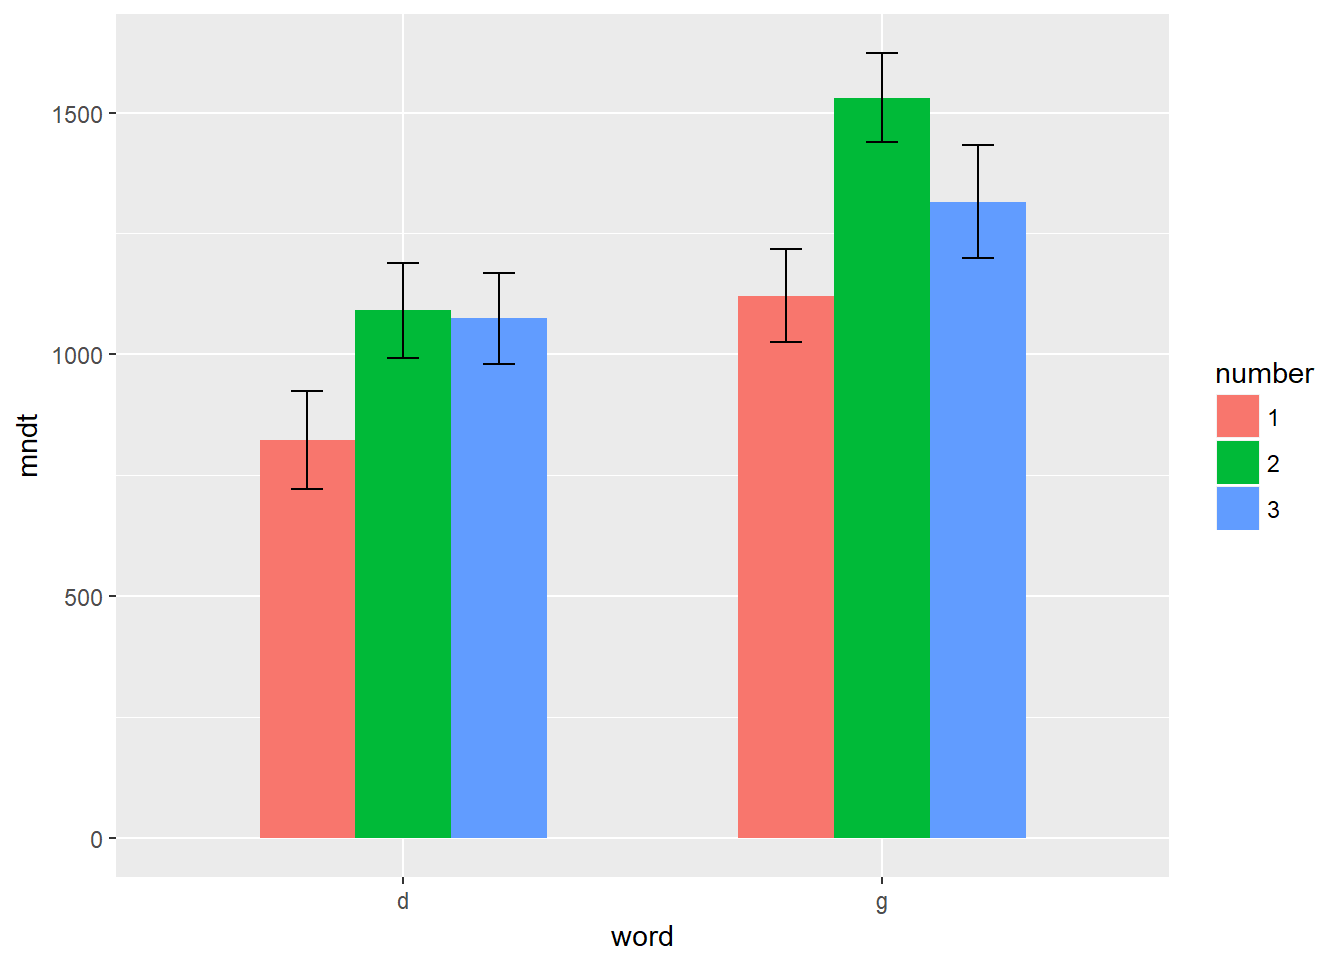
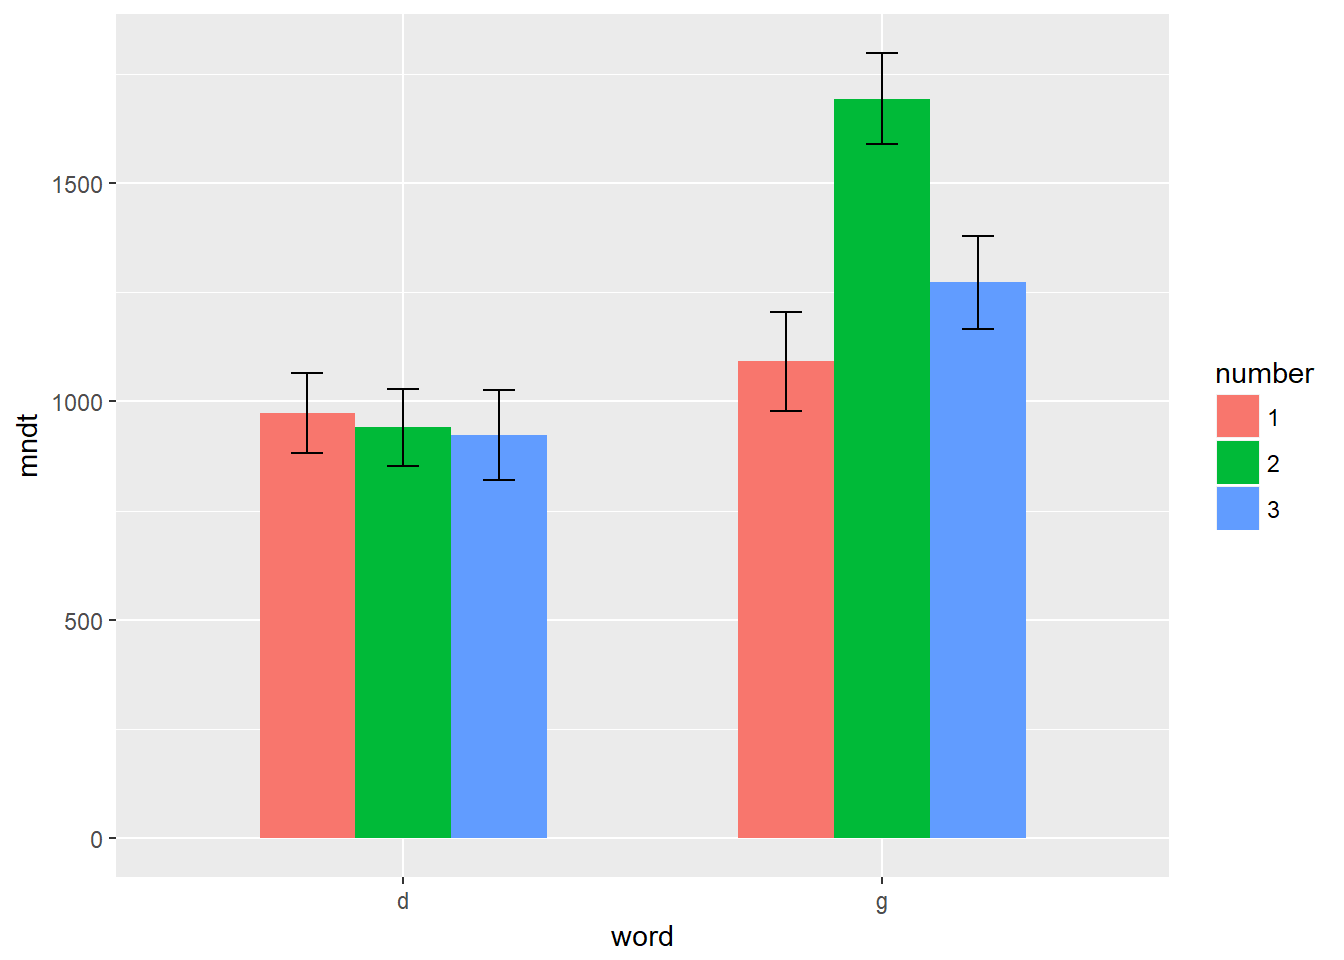
tidyverse文章改动第一次
根据孟祥良提出意见进行改动

diff --git a/blog/tidyverse-for-eyemovement/index.html b/blog/tidyverse-for-eyemovement/index.html
@@ -114,7 +114,7 @@
 
 <meta itemprop="datePublished" content="2017-12-25T00:00:00&#43;00:00" />
 <meta itemprop="dateModified" content="2017-12-25T00:00:00&#43;00:00" />
-<meta itemprop="wordCount" content="2612">
+<meta itemprop="wordCount" content="2630">
 
 
 
@@ -143,7 +143,7 @@
 <h2>载入tidyverse</h2>
 <pre class="r"><code>library(tidyverse)</code></pre>
 <pre><code>## Warning: package &#39;tidyverse&#39; was built under R version 3.4.3</code></pre>
-<pre><code>## -- Attaching packages ----------------- tidyverse 1.2.1 --</code></pre>
+<pre><code>## -- Attaching packages ------------------------------ tidyverse 1.2.1 --</code></pre>
 <pre><code>## √ ggplot2 2.2.1     √ purrr   0.2.4
 ## √ tibble  1.4.2     √ dplyr   0.7.4
 ## √ tidyr   0.8.0     √ stringr 1.2.0
@@ -152,7 +152,7 @@
 <pre><code>## Warning: package &#39;tidyr&#39; was built under R version 3.4.3</code></pre>
 <pre><code>## Warning: package &#39;purrr&#39; was built under R version 3.4.3</code></pre>
 <pre><code>## Warning: package &#39;dplyr&#39; was built under R version 3.4.3</code></pre>
-<pre><code>## -- Conflicts -------------------- tidyverse_conflicts() --
+<pre><code>## -- Conflicts --------------------------------- tidyverse_conflicts() --
 ## x dplyr::filter() masks stats::filter()
 ## x dplyr::lag()    masks stats::lag()</code></pre>
 <p>载入<code>tidyverse</code>后，可以看到有8个包被同时载入，这8个包分别是：</p>
@@ -208,7 +208,7 @@
 <p><code>tibble</code>格式相较于<code>data.frame</code>格式的优势在于，默认情况下只显示前10行数据，并会显示数据的行数与列数以及每一列的数据类型，这样就无需额外使用<code>str</code>等函数来查看相关的信息。</p>
 <p>通过直接输入数据名，我们来看一下这个数据：</p>
 <pre class="r"><code>dl</code></pre>
-<pre><code>## # A tibble: 13,147 x 30
+<pre><code>## # A tibble: 13,123 x 30
 ##    Trial  Subject Color  Stimulus `Area of Intere~ `AOI Group` `AOI Scope`
 ##    &lt;chr&gt;  &lt;chr&gt;   &lt;chr&gt;  &lt;chr&gt;    &lt;chr&gt;            &lt;chr&gt;       &lt;chr&gt;      
 ##  1 Trial~ P01     Coral  1d1.jpg  AOI 003          &lt;NA&gt;        Local      
@@ -221,7 +221,7 @@
 ##  8 Trial~ FZL     DarkG~ 1d1.jpg  AOI 003          &lt;NA&gt;        Local      
 ##  9 Trial~ XC (1)  DarkK~ 1d1.jpg  AOI 003          &lt;NA&gt;        Local      
 ## 10 Trial~ WW      DarkM~ 1d1.jpg  AOI 003          &lt;NA&gt;        Local      
-## # ... with 13,137 more rows, and 23 more variables: `AOI Order` &lt;int&gt;,
+## # ... with 13,113 more rows, and 23 more variables: `AOI Order` &lt;int&gt;,
 ## #   `AOI Size [px]` &lt;int&gt;, `AOI Coverage [%]` &lt;dbl&gt;, `Start Time
 ## #   [ms]` &lt;int&gt;, `End Time [ms]` &lt;int&gt;, `Entry Time [ms]` &lt;chr&gt;,
 ## #   Sequence &lt;chr&gt;, `Net Dwell Time [ms]` &lt;dbl&gt;, `Dwell Time [ms]` &lt;dbl&gt;,
@@ -245,7 +245,7 @@
 <p>在这里，我用到了管道操作符<code>%&gt;%</code>。它的作用是将其左边操作所生成的数据传递到其右边函数的第一个参数位置上（通过某种操作也可传递到其他位置上），其快捷键是<strong>Ctrl+Shift+M</strong>（另外，赋值符<strong>&lt;-</strong>的快捷键是<strong>Alt+-</strong>）。使用管道操作符，可以在保证代码具有条理性的前提之下，减少中间变量的命名（给中间变量起名是一件非常耗时的事情）与重复输入。因为<code>tidyverse</code>包函数中第一个参数位置上一般都是数据名，所以管道操作符可以很好地与<code>tidyverse</code>搭配使用。管道操作符属于<code>magrittr</code>包，但载入<code>tidyverse</code>包会将其自动载入。管道操作符并不是只有这一种，若想进一步了解管道操作符，请看<a href="https://www.datacamp.com/community/tutorials/pipe-r-tutorial">Pipes in R Tutorial For Beginners</a>。另外，<code>pipeR</code>包也提供了一系列管道操作符，非常实用，其作者是之前提到的任坤。</p>
 <p><code>tidyverse</code>有一个原则，即每个函数只做一件事情（忘了在哪里看到的了）。但是<code>select</code>函数就违背了这一原则，因为它至少可以做三件事情。一是对列进行选择，二是对所选择的列进行重命名，三是对所选择的列进行排序。在上面的代码中，我从原始数据中选择了5列，并重新给变量命了名，这时的数据是这样的：</p>
 <pre class="r"><code>dl</code></pre>
-<pre><code>## # A tibble: 13,147 x 5
+<pre><code>## # A tibble: 13,123 x 5
 ##    trial    sub    stimuli aoi     net_dt
 ##    &lt;chr&gt;    &lt;chr&gt;  &lt;chr&gt;   &lt;chr&gt;    &lt;dbl&gt;
 ##  1 Trial048 P01    1d1.jpg AOI 003      0
@@ -258,7 +258,7 @@
 ##  8 Trial041 FZL    1d1.jpg AOI 003   1024
 ##  9 Trial041 XC (1) 1d1.jpg AOI 003    721
 ## 10 Trial041 WW     1d1.jpg AOI 003   1152
-## # ... with 13,137 more rows</code></pre>
+## # ... with 13,113 more rows</code></pre>
 <p>需要的列已经挑选了出来，接下来该针对行进行处理了。在处理之前，我先用<code>unique</code>函数对兴趣区内的元素进行了查看。<code>unique</code>函数的作用是去掉重复的元素。这一步的代码如下：</p>
 <pre class="r"><code>unique(dl$aoi)</code></pre>
 <pre><code>## [1] &quot;AOI 003&quot;     &quot;AOI 002&quot;     &quot;AOI 001&quot;     &quot;White Space&quot;</code></pre>
@@ -268,7 +268,7 @@
   filter(aoi != &quot;White Space&quot;)</code></pre>
 <p><code>filter</code>函数在这里的作用是将<strong>aoi</strong>变量中不是(<code>!</code>)”White Space“的行保留下来。此时的数据是这样的，可以看到，在剔除了一部分无用数据之后，行数已经从13000多行减少到了9000多行：</p>
 <pre class="r"><code>dl</code></pre>
-<pre><code>## # A tibble: 9,391 x 5
+<pre><code>## # A tibble: 9,373 x 5
 ##    trial    sub    stimuli aoi     net_dt
 ##    &lt;chr&gt;    &lt;chr&gt;  &lt;chr&gt;   &lt;chr&gt;    &lt;dbl&gt;
 ##  1 Trial048 P01    1d1.jpg AOI 003      0
@@ -281,7 +281,7 @@
 ##  8 Trial041 FZL    1d1.jpg AOI 003   1024
 ##  9 Trial041 XC (1) 1d1.jpg AOI 003    721
 ## 10 Trial041 WW     1d1.jpg AOI 003   1152
-## # ... with 9,381 more rows</code></pre>
+## # ... with 9,363 more rows</code></pre>
 <p>先前提到，这个数据中还有一部分预实验被试的数据，在正式分析之前，我们还要将这些被试的数据剔除掉。这一步还是要用到<code>filter</code>函数，但在处理之前，要先建立一个包含了预实验被试名的字符串。这一行代码如下：</p>
 <pre class="r"><code>sub_pre &lt;- c(&quot;P01&quot;, &quot;lhj&quot;, &quot;xyn&quot;, &quot;WCF&quot;, &quot;YYH&quot;, &quot;CBL&quot;, &quot;MJC&quot;, &quot;FZL&quot;, &quot;XC (1)&quot;, &quot;WW&quot;, &quot;LJY&quot;)</code></pre>
 <p>接下来就可以使用<code>filter</code>将预实验被试数据清理掉了。此时的代码如下：</p>
@@ -294,7 +294,7 @@
 <pre><code>##  [1]  TRUE  TRUE  TRUE FALSE FALSE FALSE FALSE FALSE FALSE FALSE</code></pre>
 <p>时，可以看到前3个值返回了<strong>TRUE</strong>，而后面都是<strong>FALSE</strong>，因为左边数据中只有前3个元素与右边匹配。在之前的代码中，我将<strong>sub</strong>列与<strong>sub_pre</strong>进行匹配，随后又使用逻辑非(<strong>!</strong>)反向选择，进而剔除了预实验被试。此时数据如下，可以看到行数进一步减少到了8000多行：</p>
 <pre class="r"><code>dl</code></pre>
-<pre><code>## # A tibble: 8,401 x 5
+<pre><code>## # A tibble: 8,387 x 5
 ##    trial    sub   stimuli aoi     net_dt
 ##    &lt;chr&gt;    &lt;chr&gt; &lt;chr&gt;   &lt;chr&gt;    &lt;dbl&gt;
 ##  1 Trial007 gyx   1d1.jpg AOI 003  288  
@@ -307,7 +307,7 @@
 ##  8 Trial051 CXM   1d1.jpg AOI 003 1548  
 ##  9 Trial007 ZA    1d1.jpg AOI 003   48.0
 ## 10 Trial047 ZA    1d1.jpg AOI 003 1096  
-## # ... with 8,391 more rows</code></pre>
+## # ... with 8,377 more rows</code></pre>
 <p>接下来要对自变量进行处理。这份数据所包含的两个实验都是二因素实验，而这两个因素都包含在<strong>stimuli</strong>这一列变量中，这一点违背了<strong>Tidy Data</strong>的第一个原则，即一种变量形成一列，而不是两个变量同在一列。先看一下<strong>stimuli</strong>列中的元素：</p>
 <pre class="r"><code>unique(dl$stimuli)</code></pre>
 <pre><code>##  [1] &quot;1d1.jpg&quot;  &quot;2g1.jpg&quot;  &quot;3g6.jpg&quot;  &quot;3d1.jpg&quot;  &quot;2d5.jpg&quot;  &quot;1g6.jpg&quot; 
@@ -327,7 +327,7 @@
   mutate(stimuli = str_replace(stimuli, &quot;\\d_{0,}.jpg&quot;, &quot;&quot;))</code></pre>
 <p>这一行代码的意思是指针对<strong>stimuli</strong>列，用“”替换符合“\\d_{0,}.jpg”这一表达式的内容（其中“\\d”用来匹配数字，“_{0,}”用来匹配0个或多个“_”），因为“”中没有任何东西，其作用就是删除。替换之后，覆盖之前的<strong>stimuli</strong>列。此时数据及<strong>stimuli</strong>列中的元素如下：</p>
 <pre class="r"><code>dl</code></pre>
-<pre><code>## # A tibble: 8,401 x 5
+<pre><code>## # A tibble: 8,387 x 5
 ##    trial    sub   stimuli aoi     net_dt
 ##    &lt;chr&gt;    &lt;chr&gt; &lt;chr&gt;   &lt;chr&gt;    &lt;dbl&gt;
 ##  1 Trial007 gyx   1d      AOI 003  288  
@@ -340,7 +340,7 @@
 ##  8 Trial051 CXM   1d      AOI 003 1548  
 ##  9 Trial007 ZA    1d      AOI 003   48.0
 ## 10 Trial047 ZA    1d      AOI 003 1096  
-## # ... with 8,391 more rows</code></pre>
+## # ... with 8,377 more rows</code></pre>
 <pre class="r"><code>unique(dl$stimuli)</code></pre>
 <pre><code>##  [1] &quot;1d&quot;  &quot;2g&quot;  &quot;3g&quot;  &quot;3d&quot;  &quot;2d&quot;  &quot;1g&quot;  &quot;3s6&quot; &quot;1s1&quot; &quot;3s2&quot; &quot;1s2&quot; &quot;2s6&quot;
 ## [12] &quot;1s3&quot; &quot;1s6&quot; &quot;3s4&quot; &quot;1s4&quot; &quot;3s3&quot; &quot;2s5&quot; &quot;1s5&quot; &quot;2s2&quot; &quot;2s1&quot; &quot;2s3&quot; &quot;2s4&quot;
@@ -354,7 +354,7 @@
   separate(stimuli, c(&quot;number&quot;, &quot;word&quot;), sep = 1)</code></pre>
 <p>通过这一行代码的操作，原先的<strong>stimuli</strong>列分离成了<strong>number</strong>和<strong>word</strong>两个新列。</p>
 <pre class="r"><code>dl</code></pre>
-<pre><code>## # A tibble: 8,401 x 6
+<pre><code>## # A tibble: 8,387 x 6
 ##    trial    sub   number word  aoi     net_dt
 ##    &lt;chr&gt;    &lt;chr&gt; &lt;chr&gt;  &lt;chr&gt; &lt;chr&gt;    &lt;dbl&gt;
 ##  1 Trial007 gyx   1      d     AOI 003  288  
@@ -367,7 +367,7 @@
 ##  8 Trial051 CXM   1      d     AOI 003 1548  
 ##  9 Trial007 ZA    1      d     AOI 003   48.0
 ## 10 Trial047 ZA    1      d     AOI 003 1096  
-## # ... with 8,391 more rows</code></pre>
+## # ... with 8,377 more rows</code></pre>
 <p>这时，我们可以使用<code>dplyr</code>包中的<code>arrange</code>函数以及之前使用过的<code>select</code>函数对行与列进行排序，并去掉已经没有用的<strong>aoi</strong>列。<code>arrange</code>函数默认是按升序排列，可以通过在参数前面加上<code>desc()</code>或<code>-</code>改为降序排列。此时代码如下：</p>
 <pre class="r"><code>dl &lt;- read_csv(&quot;dl.csv&quot;) %&gt;%
   select(trial = 1, sub = 2, stimuli = 4, aoi = 5, net_dt = 15) %&gt;%
@@ -379,7 +379,7 @@
   select(2, 1, 3, 4, 6)</code></pre>
 <p>结果如下：</p>
 <pre class="r"><code>dl</code></pre>
-<pre><code>## # A tibble: 8,401 x 5
+<pre><code>## # A tibble: 8,387 x 5
 ##    sub   trial    number word  net_dt
 ##    &lt;chr&gt; &lt;chr&gt;    &lt;chr&gt;  &lt;chr&gt;  &lt;dbl&gt;
 ##  1 AYQ   Trial003 3      s6      1976
@@ -392,7 +392,7 @@
 ##  8 AYQ   Trial006 3      d          0
 ##  9 AYQ   Trial006 3      d       1628
 ## 10 AYQ   Trial006 3      d        988
-## # ... with 8,391 more rows</code></pre>
+## # ... with 8,377 more rows</code></pre>
 <p>接下来要对数据进行简单的描述统计计算，这时要用到<code>dplyr</code>包中的<code>group_by</code>和<code>summarise</code>组合。<code>group_by</code>用来针对变量进行分组，<code>summarise</code>用来进行计算，并在计算之后生成新的数据。此时代码如下：</p>
 <pre class="r"><code>dl &lt;- read_csv(&quot;dl.csv&quot;) %&gt;%
   select(trial = 1, sub = 2, stimuli = 4, aoi = 5, net_dt = 15) %&gt;%
@@ -448,7 +448,7 @@
 ##  7 CJY   1      d         1074
 ##  8 CJY   1      g         1304
 ##  9 CJY   2      d         1205
-## 10 CJY   2      g         1708
+## 10 CJY   2      g         1750
 ## # ... with 272 more rows</code></pre>
 <p>后面要对数据进行可视化处理，但由于这份数据并不是我的，我觉得还是不要把数据的真实情况展示出来的好，所以我进行了一些处理，此时的代码如下，这一串代码到此结束：</p>
 <pre class="r"><code>dl &lt;- read_csv(&quot;dl.csv&quot;) %&gt;%
@@ -475,12 +475,12 @@
 ## # Groups:   number [?]
 ##   number word   mndt    se
 ##   &lt;chr&gt;  &lt;chr&gt; &lt;dbl&gt; &lt;dbl&gt;
-## 1 1      d       823 101  
-## 2 1      g      1122  96.0
-## 3 2      d      1091  98.4
-## 4 2      g      1531  91.4
-## 5 3      d      1075  94.1
-## 6 3      g      1316 116</code></pre>
+## 1 1      d       974  91.3
+## 2 1      g      1092 113  
+## 3 2      d       941  88.2
+## 4 2      g      1693 104  
+## 5 3      d       922 103  
+## 6 3      g      1272 107</code></pre>
 <p>接下来我就要在此数据的基础上画出一个直条图来，这个图暂时只包括最基本的三种成分。此时的代码如下：</p>
 <pre class="r"><code>dl %&gt;% group_by(number, word) %&gt;% 
   summarise(mndt = mean(mean_ndt), se = sd(mean_ndt)/sqrt(n())) %&gt;% 
@@ -563,32 +563,34 @@
 </div>
 <div class="section level2">
 <h2>数据分析</h2>
-<p>近年来，使用线性混合模型分析眼动数据开始流行起来，有一份<strong>R</strong>代码在各研究者之间流传（估计全国研究这一领域的都是用的同一份代码），但这份代码写的比较凌乱且臃肿。之前和同学（组织这篇文章内容时心里所想的默认读者）开始着手重写这份代码，但只开了个头，她就跑到其他省做实验去了，至今也没有回来。我的统计水平不足以使我独自继续这项任务，因此计划便搁浅了，如果将来有机会的话，我希望能结合着线性混合模型再写一篇眼动分析的文章。但是这一部分也不能空着，因此先丢个方差分析的代码：</p>
+<p>近年来，使用线性混合模型分析眼动数据开始流行起来，有一份<strong>R</strong>代码在各研究者之间流传，但这份代码写的比较凌乱且臃肿。之前和同学（组织这篇文章内容时心里所想的默认读者）开始着手重写这份代码，但只开了个头，我的统计水平不足以使我独自继续这项任务，因此计划便搁浅了，如果将来有机会的话，我希望能结合着线性混合模型再写一篇眼动分析的文章。但是这一部分也不能空着，因此先丢个方差分析的代码：</p>
 <pre class="r"><code>aov(mean_ndt ~ factor(number) * factor(word) + 
       Error(factor(sub)/(factor(number) * factor(word))), dl) %&gt;% summary()</code></pre>
 <pre><code>## 
 ## Error: factor(sub)
 ##           Df   Sum Sq Mean Sq F value Pr(&gt;F)
-## Residuals 46 40839989  887826               
+## Residuals 46 45836001  996435               
 ## 
 ## Error: factor(sub):factor(number)
-##                Df   Sum Sq Mean Sq F value   Pr(&gt;F)    
-## factor(number)  2  5576551 2788275   7.665 0.000833 ***
-## Residuals      92 33464426  363744                     
+##                Df   Sum Sq Mean Sq F value  Pr(&gt;F)   
+## factor(number)  2  4169177 2084589   5.268 0.00683 **
+## Residuals      92 36408265  395742                   
 ## ---
 ## Signif. codes:  0 &#39;***&#39; 0.001 &#39;**&#39; 0.01 &#39;*&#39; 0.05 &#39;.&#39; 0.1 &#39; &#39; 1
 ## 
 ## Error: factor(sub):factor(word)
-##              Df   Sum Sq Mean Sq F value   Pr(&gt;F)    
-## factor(word)  1  7525234 7525234   20.86 3.69e-05 ***
-## Residuals    46 16593026  360718                     
+##              Df   Sum Sq  Mean Sq F value   Pr(&gt;F)    
+## factor(word)  1 11675795 11675795    36.9 2.24e-07 ***
+## Residuals    46 14554065   316393                     
 ## ---
 ## Signif. codes:  0 &#39;***&#39; 0.001 &#39;**&#39; 0.01 &#39;*&#39; 0.05 &#39;.&#39; 0.1 &#39; &#39; 1
 ## 
 ## Error: factor(sub):factor(number):factor(word)
-##                             Df   Sum Sq Mean Sq F value Pr(&gt;F)
-## factor(number):factor(word)  2   493590  246795   0.594  0.554
-## Residuals                   92 38220918  415445</code></pre>
+##                             Df   Sum Sq Mean Sq F value Pr(&gt;F)   
+## factor(number):factor(word)  2  4827777 2413889   6.018 0.0035 **
+## Residuals                   92 36904397  401135                  
+## ---
+## Signif. codes:  0 &#39;***&#39; 0.001 &#39;**&#39; 0.01 &#39;*&#39; 0.05 &#39;.&#39; 0.1 &#39; &#39; 1</code></pre>
 <p>在<code>aov</code>函数中，先要把公式写前面，而且在公式中，自变量要改为<strong>factor</strong>（因子型），另外由于这个实验是被试内设计，所以还要通过<code>Error</code>参数指定被试内变量。公式之后的参数是数据名，最后通过管道操作符出将结果传递给<code>summary</code>函数，方差分析的结果就展示了出来。因为数据做了修改，所以就不针对结果进行说明了。</p>
 </div>
 <div class="section level2">
@@ -622,7 +624,7 @@
   
     and tagged <a href="/tags/tidyverse/">Tidyverse</a> and <a href="/tags/%E7%9C%BC%E5%8A%A8/">眼动</a>
   
-  using <span itemprop="wordCount">2612</span> words.
+  using <span itemprop="wordCount">2630</span> words.
 </p>
 
         
